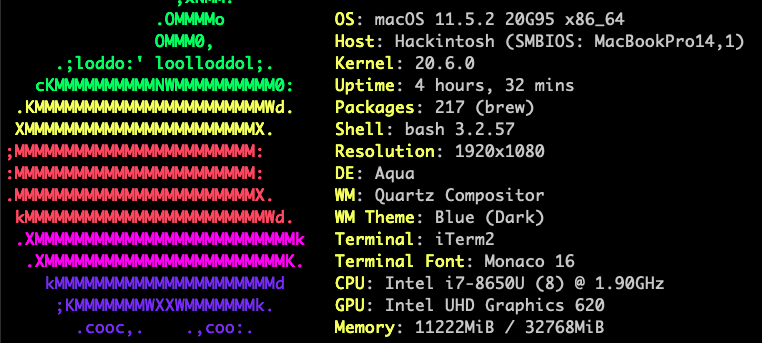
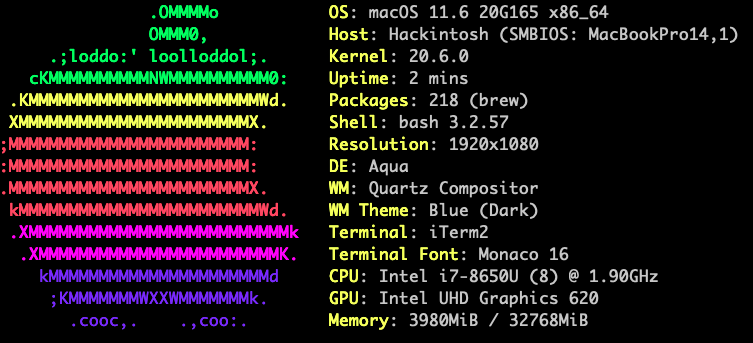
macOS 11.6 (20G165)

diff --git a/README.md b/README.md
@@ -14,7 +14,7 @@ Working (compared to other setup I've found):
 
 Tested with:
 * T480 i7-8650U FHD, 32GB RAM, NVME, nvidia MX150 deactivated in DSDT/SSDT
-* macOS 11.5.2 (20G95)
+* macOS 11.6 (20G165)
 * Wireless DW1560, NGFF Broadcom BCM4352 802.11ac with PCID [14e4:43b1]
 * Wireless DW1820a : use config.DW1820a.plist
 * CPU i7-8650U : use https://github.com/stevezhengshiqi/one-key-cpufriend for correct power-state/energy saving
